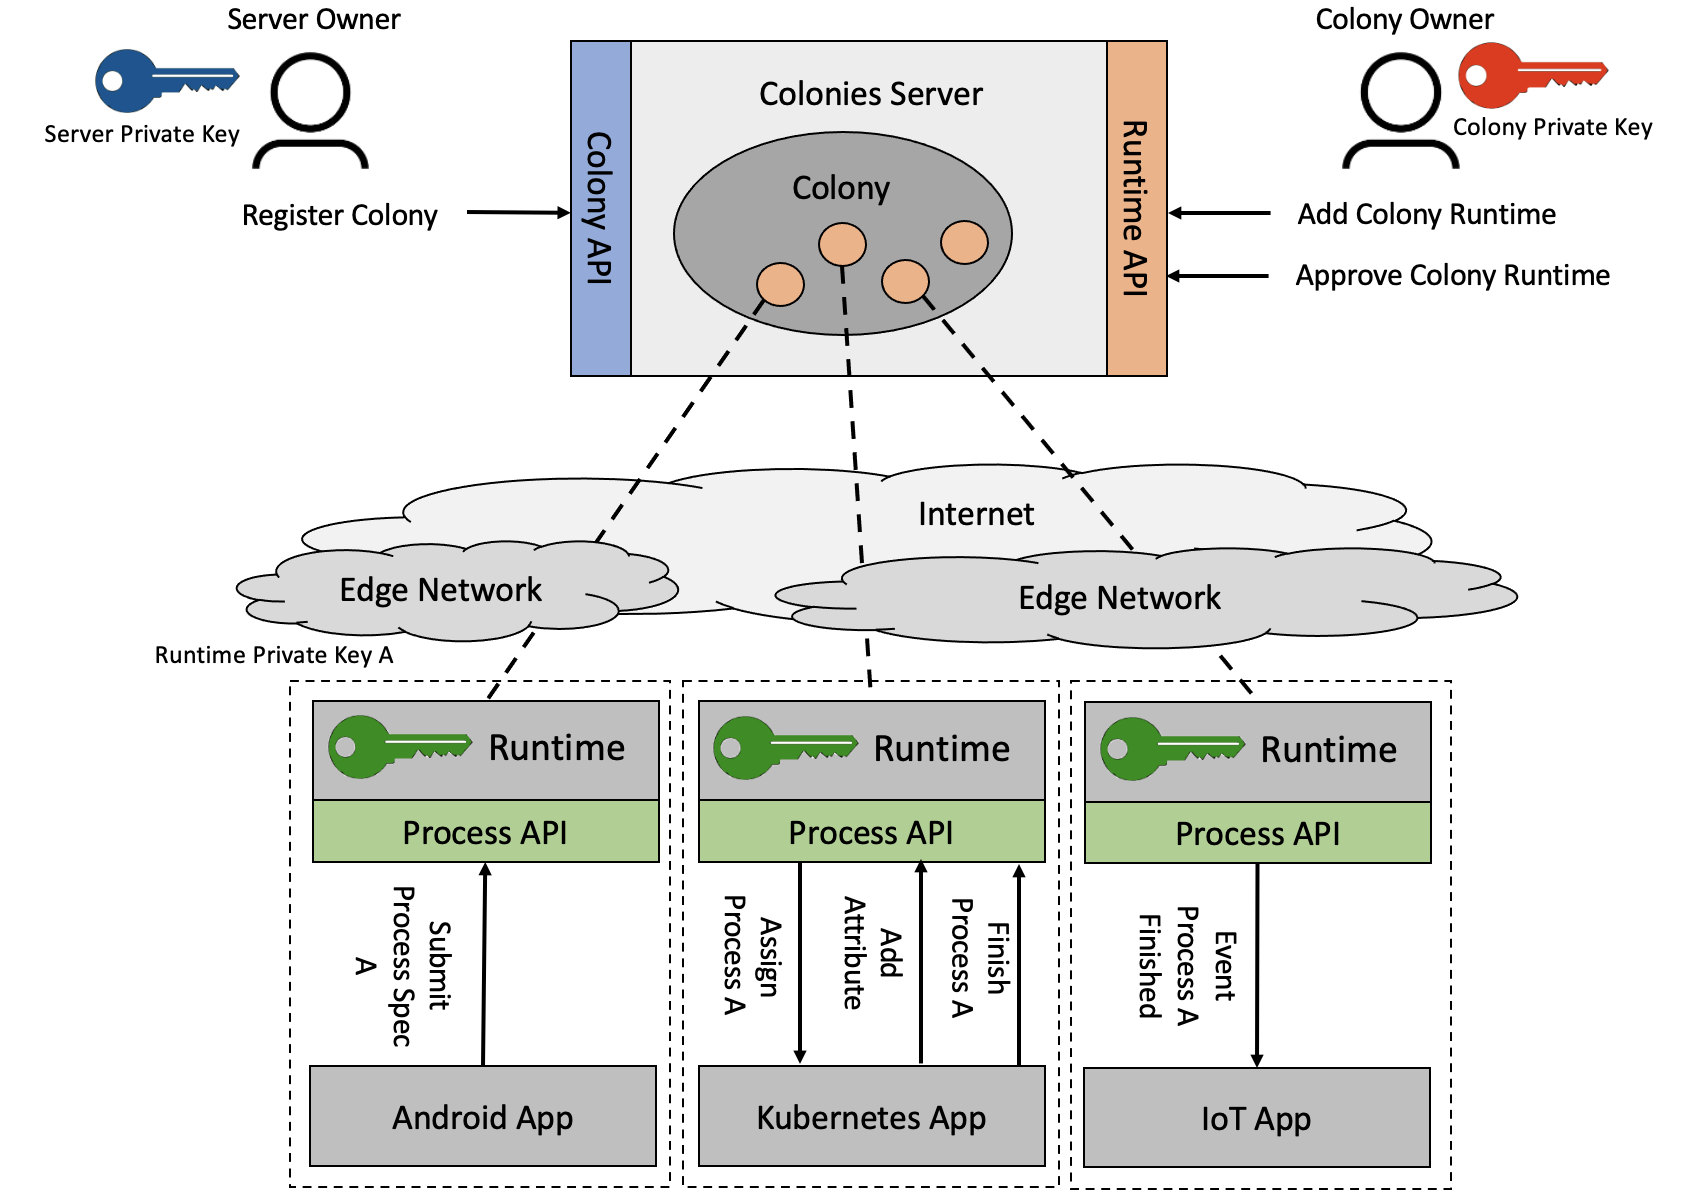
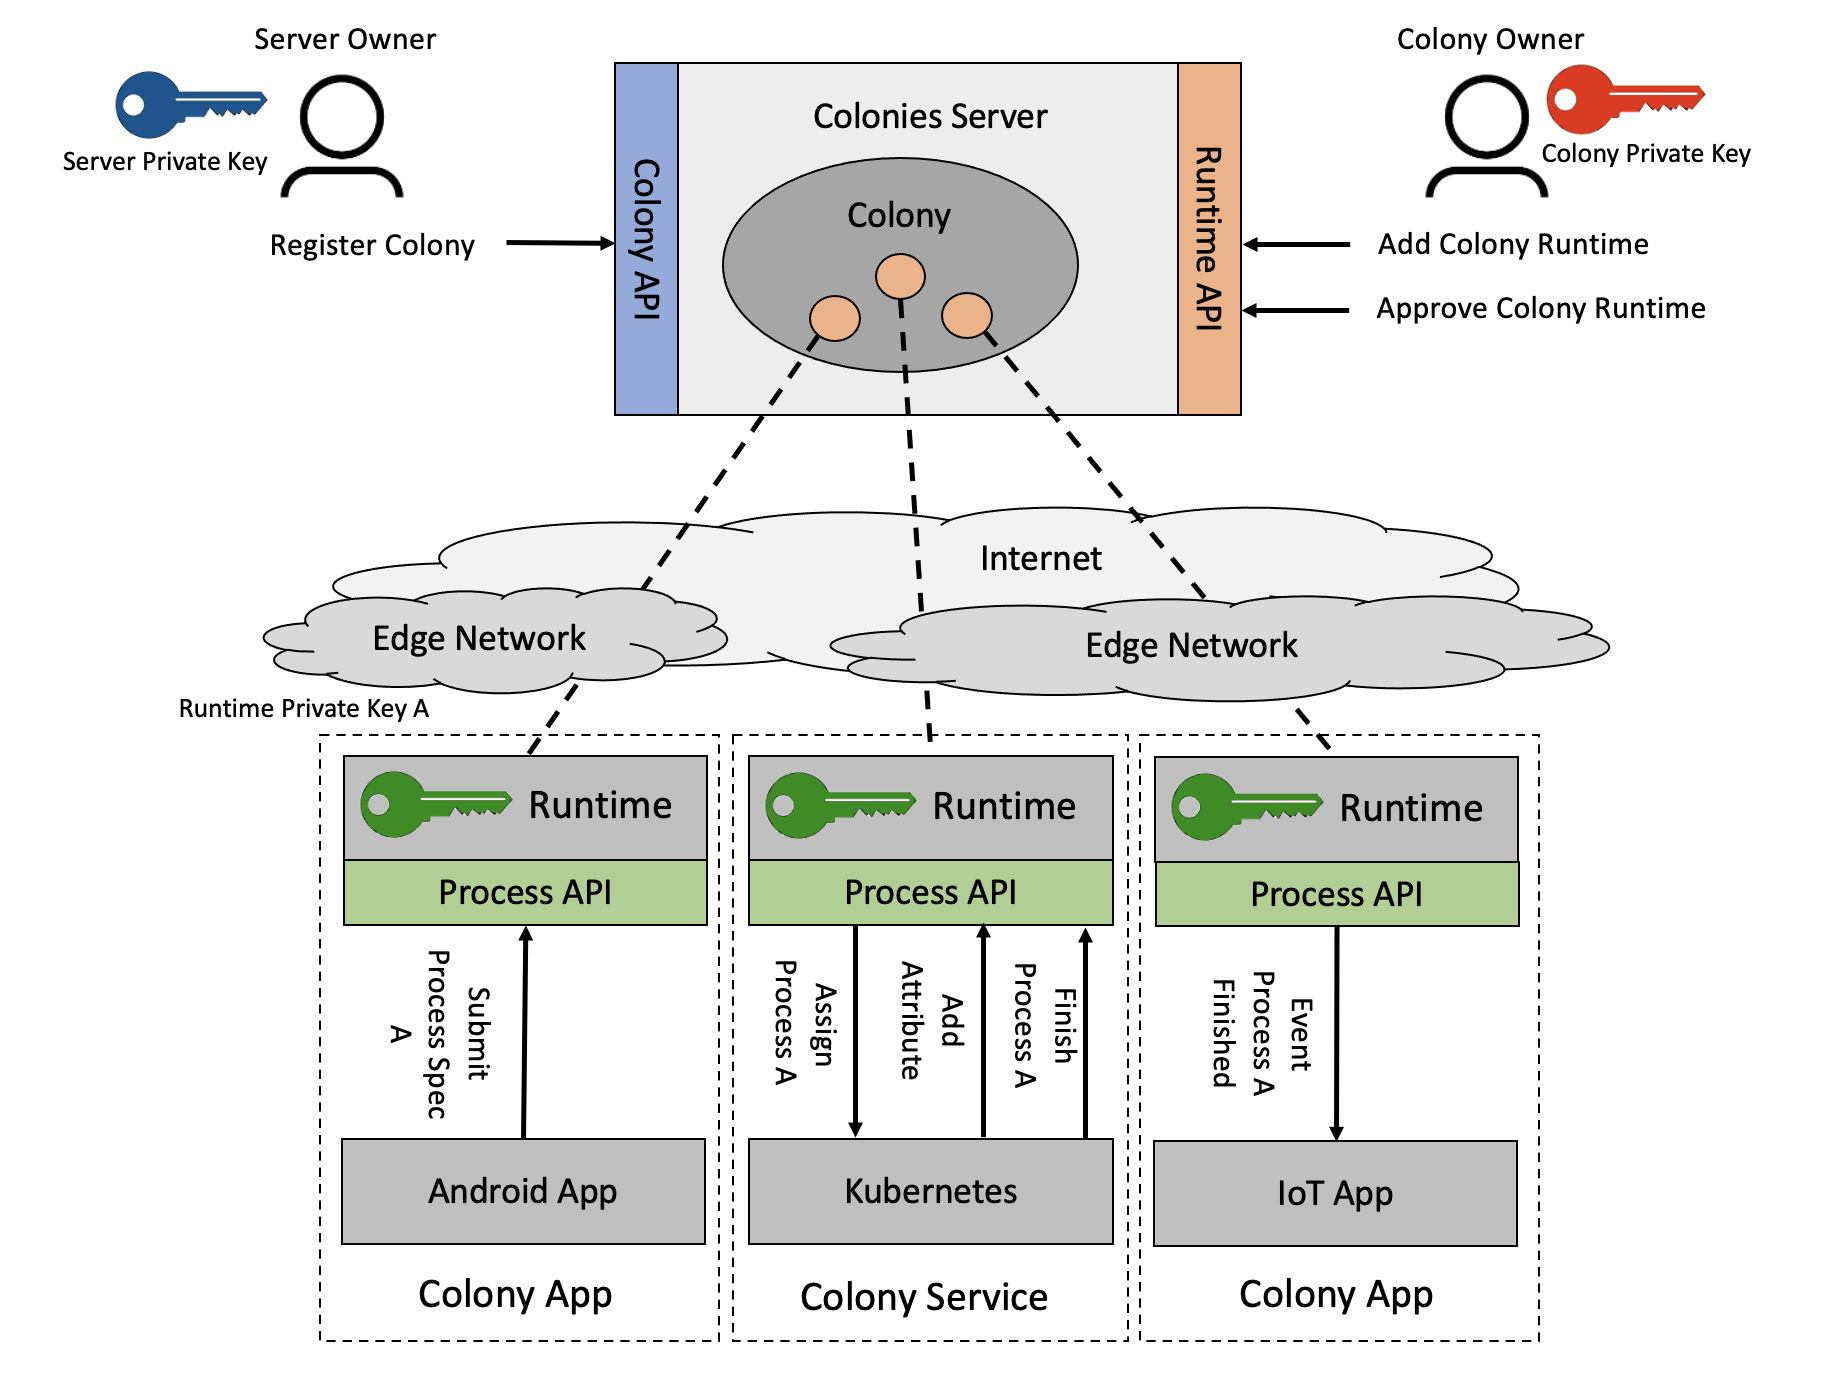
updated readme file

diff --git a/README.md b/README.md
@@ -1,13 +1,16 @@
 [![codecov](https://codecov.io/gh/johankristianss/colonies/branch/main/graph/badge.svg?token=G32O1AO1YB)](https://codecov.io/gh/johankristianss/colonies)
 
 # What is Colonies? 
-**Colonies** is a generic framework for implementing next-generation distributed applications and systems. It can be used as a building block for grid computing or edge computing (e.g. implement a meta operating system).
-
-A **Colony** is a collection of (geographically) distributed computers that can be controlled using a single API. A **Colony Runtime** receives intructions from the **Colonies Server** and is responsible for executing processes. The Colonies server works as a mediator, trying to match submitted processes specification to runtimes. It keep tracks of process execution history and can re-assign processes if a runtime does not complete a process in time. All Remote Procedure Calls (RPC) to the Colonies server are done atomically. This means that two Runtimes cannot be assigned the same process. If a Runtime crashes during a RPC call, that call is consider invalid, thus keeping the database consistent.   
-
-A Colony may consists of many different kinds of Colony Runtimes, e.g. a **Kubernetes Colony Runtime**, **Docker Colony Runtime**, or a **Slurm Colony Runtime**. A Colony Runtime can also reside in IoT devices or smart phones, thus making it possible to deploy and manage applications that run across devices and servers. In this way, Colonies can be used to implement a *Cloud-of-Cloud* platform that combines many execution environments into a new virtual computing environment that can be controlled using an single unified API.
+**Colonies** is a generic framework for implementing next-generation distributed applications and systems. It can be used as a building block for grid computing or edge computing, e.g. implement a *meta operating system* or *cloud-of-cloud* platform that combines many execution environments into a new virtual computing environment that can be controlled using an single unified API.
 
 ![Colonies Architecture](docs/images/ColoniesArch.png?raw=true "Colonies Architecture")
+
+* A **Colony** is a trusted collection of (geographically) distributed computers.   
+* A **Colony Process** is a virtual software process. It contains meta information how to actually execute a process on a real operating system.
+* A **Colony Runtime** communicates with the Colonies **Colonies Server** and provides an virtual runtime environment for executing Colony Processes. 
+* The **Colonies Server** works as a mediator, trying to match submitted processes specification to Colony Runtimes. It keep tracks of execution history and can also re-assign a Colony Process if is not completed in time. All Remote Procedure Calls (RPC) to the Colonies server are done atomically. This means that two Runtimes cannot be assigned the same process. If a Runtime crashes during a RPC call, that call is consider invalid, thus keeping the Colonies Server consistent.   
+* A **Colony App** is an software that runs somewhere on the Internet. It is a running instance of a Colony Process. A Colony App can for example be an Android app running on a smart phone or an IoT application running a contraint device. A Colony App consists a of Colony Runtime for interacting with other Colony Apps. 
+* A **Colony Service** is Colony App that provide services to other Colony Apps or Colony Sevices. For example, a **Colony Kubernetes Service** makes it possible to execute Colony Processes on top of Kubernetes. A **Colony Slurm Services** provides a service to run Colony Processes on HPC supercomputers. Similar to a real-operating system a **Colony App** may spawn new Colony Processes.   
 
 # Links
 * [Installation](docs/Installation.md)
